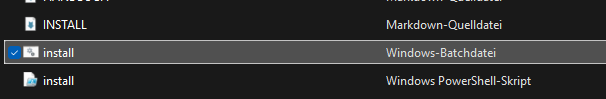
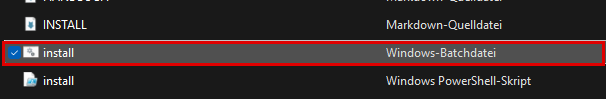
Guide: red markings on all user screenshots, CATIA context menu, menu bar, Window menu and plugin window added (personal paths cropped)
Claude-Session: https://claude.ai/code/session_01PMQtB7YnQDukmRuGEVPuVn

Changed region(s): [[0.0, 0.3939, 1.0, 0.6667]]

diff --git a/INSTALL.md b/INSTALL.md
@@ -117,7 +117,11 @@ Wer hier *No* oder *Abbrechen* klickt, wird beim ersten Öffnen des Plugins noch
 
 ### Schritt 8 – Prüfen, ob das Plugin geladen ist
 
-In CATIA **Window → Notification Window** öffnen. Dort muss eine Zeile stehen wie:
+In CATIA oben im Menü **Window → Notification Window** öffnen (oder **Strg+M**).
+
+![Menü Window → Notification Window](docs/images/start-02a-window-menu.png)
+
+Im Notification Window muss eine Zeile stehen wie:
 
 ```
 [SysML AI Q&A] Plugin loaded (version 3.1-ws2627, 17/17 diagram/table types)
@@ -137,11 +141,15 @@ Ein Projekt öffnen. Dann gibt es zwei Wege:
 
 ![Rechtsklick-Menü im Containment Tree](docs/images/start-03-context-menu.png)
 
-**Menüleiste → Ask AI** → *Ask AI about the model…*, *Ask AI about the selected element…* oder *SysML AI Q&A – API key…*. Das funktioniert auch, wenn ein Element in einer Tabelle markiert ist.
+**Menüleiste:** ganz rechts **Ask AI** → *Ask AI about the model…*, *Ask AI about the selected element…* oder *SysML AI Q&A – API key…*. Das funktioniert auch, wenn ein Element in einer Tabelle markiert ist.
 
-![Menüleiste „Ask AI“](docs/images/start-04-menu-bar.png)
+![Menüleiste mit „Ask AI“](docs/images/start-04-menu-bar.png)
 
-Es öffnet sich das Fenster **SysML AI Q&A**. Wie es funktioniert und was jede Einstellung bedeutet, steht im **[Benutzerhandbuch](HANDBUCH.md)**.
+Es öffnet sich das Fenster **SysML AI Q&A**. Das Plugin exportiert zuerst das Modell. Sobald im Einstellungsbereich **Model ready: …** steht, kann man Fragen stellen.
+
+![Das Plugin-Fenster in CATIA nach dem Export](docs/images/start-05-plugin-window.png)
+
+Wie es weitergeht und was jede Einstellung bedeutet, steht im **[Benutzerhandbuch](HANDBUCH.md)**.
 
 ---
 

diff --git a/HANDBUCH.md b/HANDBUCH.md
@@ -31,7 +31,9 @@ Dieses Handbuch erklärt das Plugin-Fenster nach der Installation: wo jede Einst
 
 In einer **Requirement-Tabelle** erscheint beim Rechtsklick kein Eintrag. Dann die Zeile markieren und den Weg über die Menüleiste nehmen.
 
-Beim Öffnen exportiert das Plugin das Modell aus CATIA. Das dauert je nach Modellgröße einige Sekunden. Danach steht unten im Einstellungsbereich **Model ready: …**.
+Beim Öffnen exportiert das Plugin das Modell aus CATIA. Das dauert je nach Modellgröße einige Sekunden. Danach steht unten im Einstellungsbereich **Model ready: …** mit der Anzahl der Elemente und Beziehungen.
+
+![Das Plugin-Fenster in CATIA nach dem Export](docs/images/start-05-plugin-window.png)
 
 ---
 
